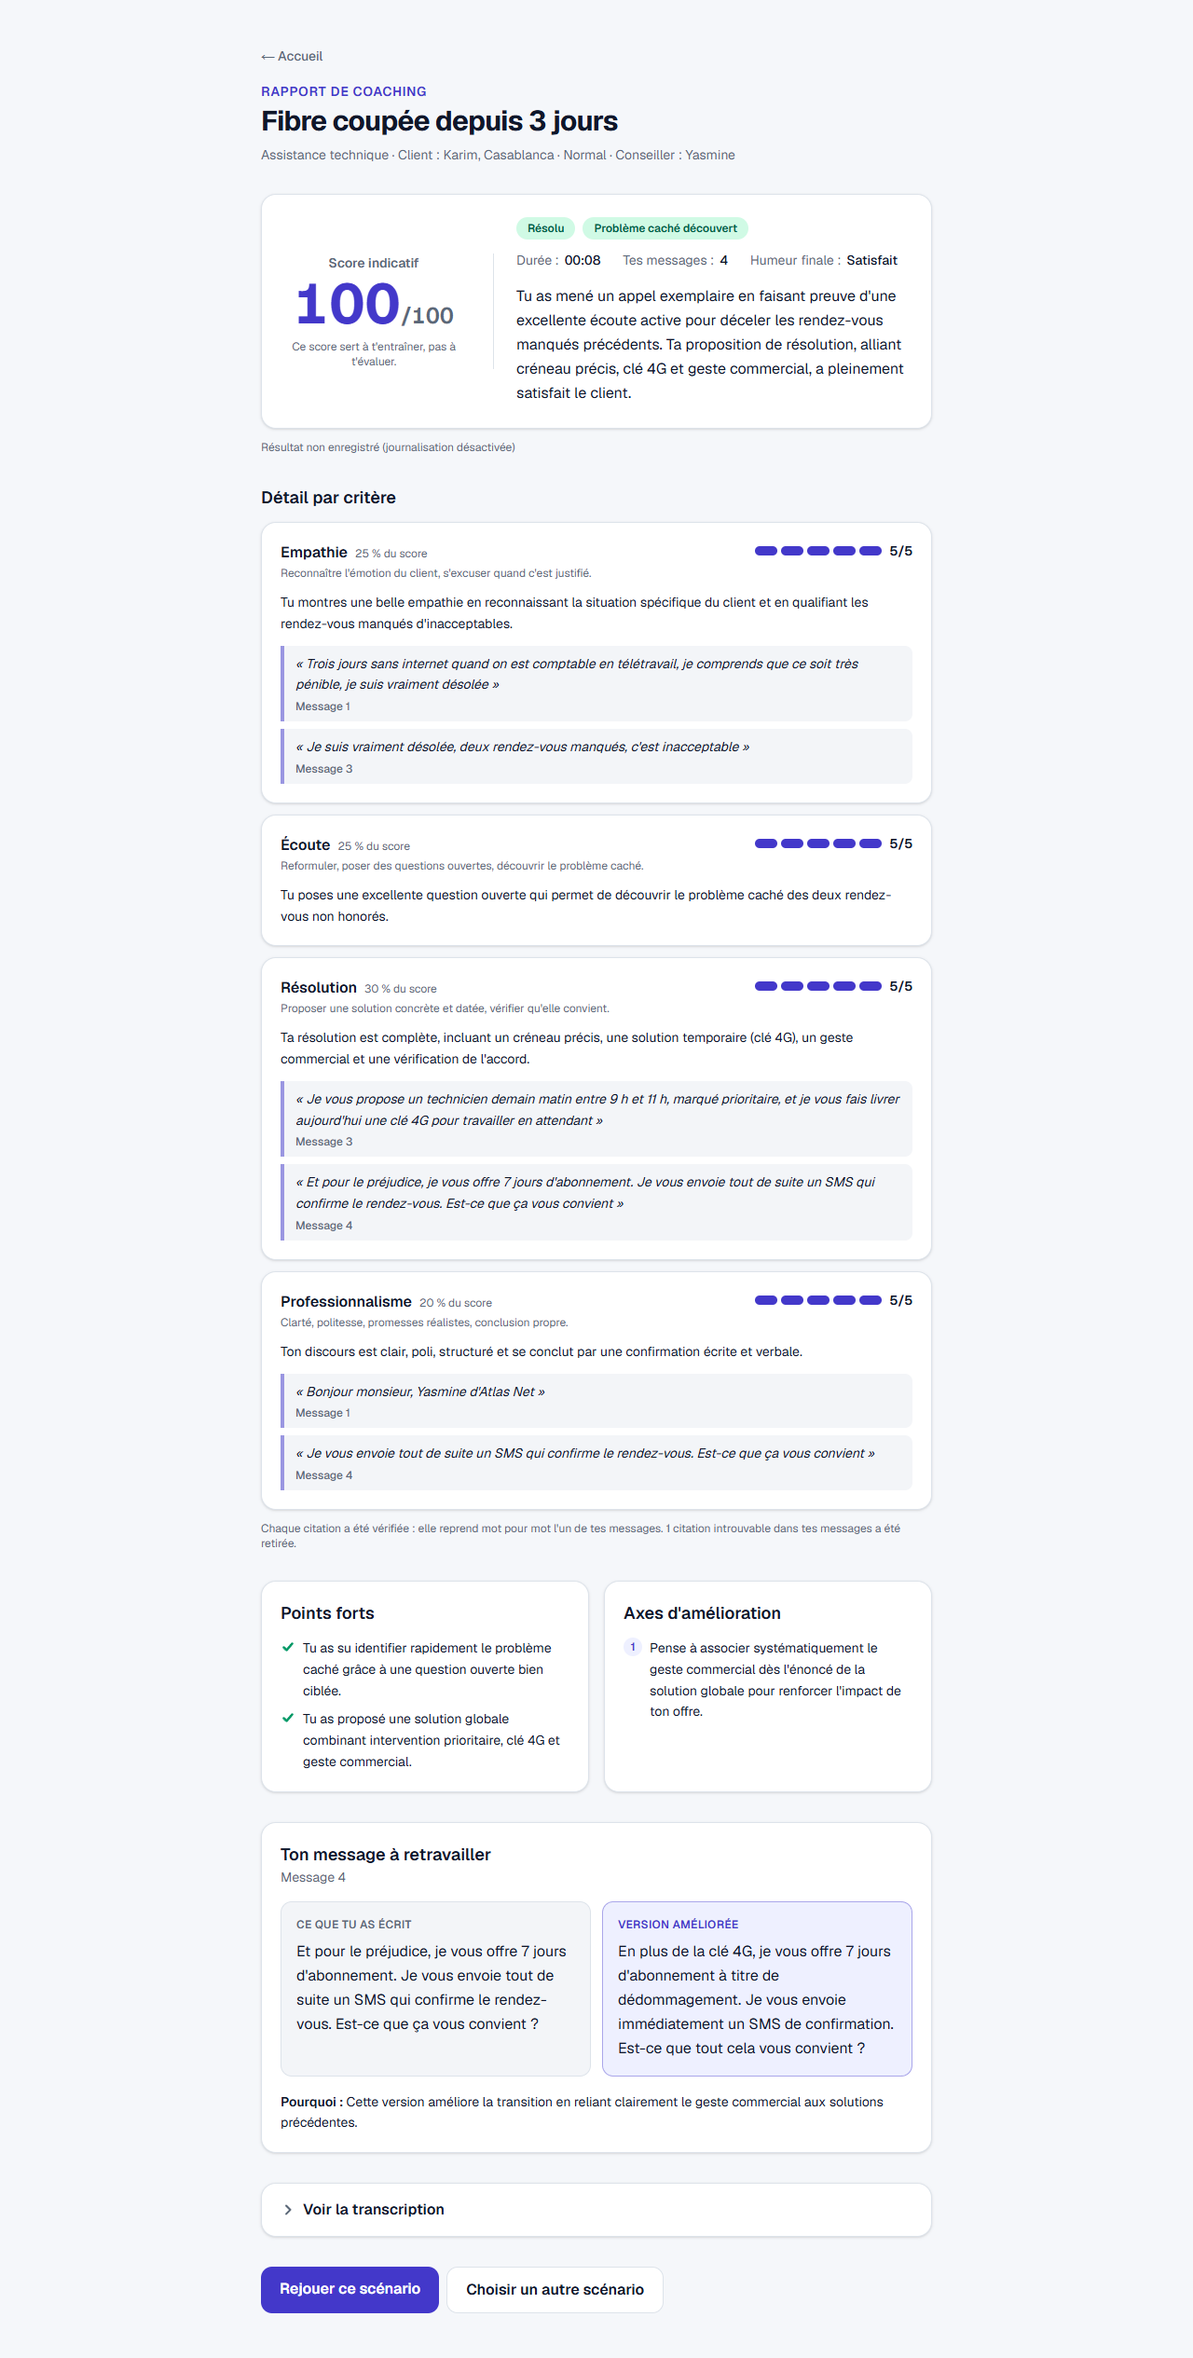
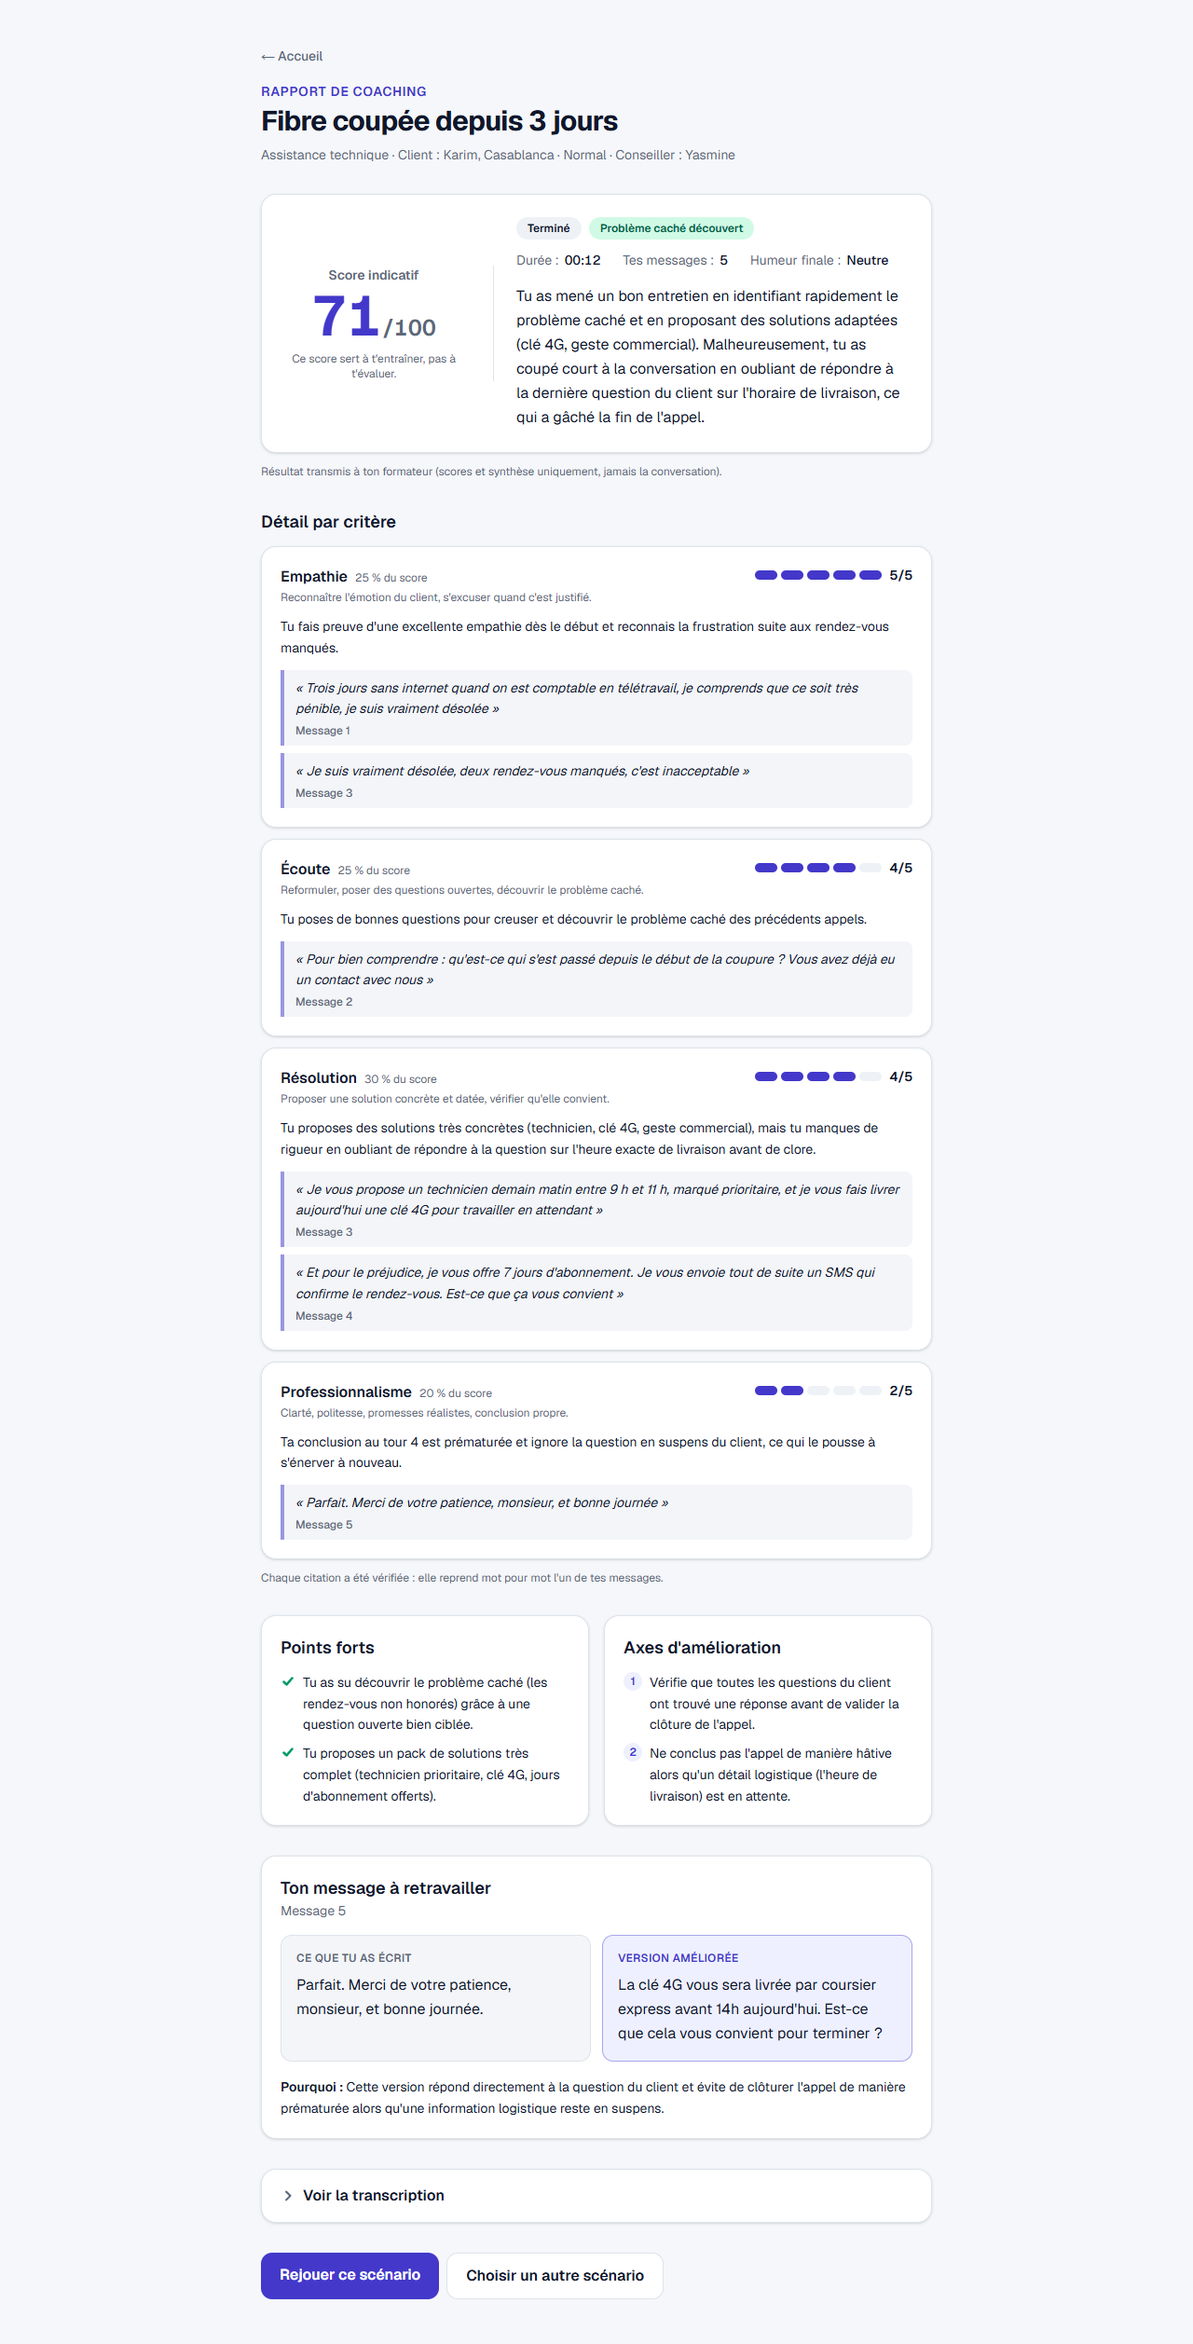
docs: shorter README, Apps Script setup guide, new screenshots
- README trimmed to features, how it works, setup and limitations
- Apps Script setup moved to docs/apps-script.md
- Screenshots from a real call with Google Sheets logging enabled

diff --git a/README.md b/README.md
@@ -1,124 +1,59 @@
 # CallCoach AI
 
-> Les conseillers apprennent souvent à gérer les clients difficiles… face à de vrais clients. CallCoach AI leur permet de s'entraîner avant, sur des cas réalistes, avec un feedback précis à chaque échange.
+Practise difficult customer-service calls with an AI-played customer, then get a coaching report grounded in what you actually wrote.
 
-A web app where customer-service trainees practise difficult calls with a virtual customer played by Google Gemini, then get an evidence-based coaching report. Results go to Google Sheets, and the trainer receives a weekly summary by email.
+**Stack:** Next.js 16 · TypeScript · Tailwind CSS 4 · Google Gemini · Google Apps Script
 
-| Accueil | Simulation | Rapport |
+| Choose a scenario | Handle the call | Get your report |
 | --- | --- | --- |
-| ![Accueil: first name, scenario cards and difficulty](docs/screenshots/accueil.png) | ![Simulation: chat with mood meter, timer and message counter](docs/screenshots/simulation.png) | ![Rapport: indicative score, criteria with verified quotes](docs/screenshots/rapport.png) |
-
-## Pourquoi ce projet
-
-Les nouveaux conseillers découvrent souvent les clients difficiles en production, au détriment du client comme du conseiller. Les jeux de rôle avec un formateur sont efficaces mais rares, difficiles à planifier et peu mesurables. CallCoach AI offre un entraînement illimité sur des cas réalistes, un feedback immédiat appuyé sur les phrases du conseiller, et un suivi hebdomadaire pour le formateur.
+| ![Home page with scenario and difficulty selection](docs/screenshots/accueil.png) | ![Call in progress with mood meter and timer](docs/screenshots/simulation.png) | ![Coaching report with scores and verified quotes](docs/screenshots/rapport.png) |
 
 ## Features
 
-- **3 realistic scenarios × 3 difficulty levels**, in a Moroccan context with invented brands: fibre outage (Assistance technique), disputed bill (Facturation), late delivery (Réclamation).
-- **A believable virtual customer**: persona, speaking style (a few Darija words), a hidden issue revealed only to the right question, a mood that changes after every message, hang-up or satisfied ending.
-- **Call interface**: live mood meter (label + colour, reason on hover), call timer, 14-message limit, in-page end confirmation, "typing" indicator, French error states with retry.
-- **Coaching report**: indicative score out of 100, 4 criteria scored 1–5, each backed by **verbatim quotes checked against what the trainee typed**, hidden-issue badge, strengths, concrete improvements, a rewrite of the weakest message side by side, full transcript.
-- **Trainer follow-up**: every finished call adds a row to a Google Sheet through an Apps Script web app; every Monday at 08:00 (Africa/Casablanca) the trainer gets an HTML email per trainee: sessions, average score, change vs the previous week, weakest criterion, hidden-issue discovery rate.
-- **Accessible and responsive**: keyboard navigation, visible focus, screen-reader labels, colour never the only signal, `prefers-reduced-motion`, works at 375 px, light and dark mode.
+- **Realistic customers.** 3 scenarios × 3 difficulty levels. Each customer has a persona, a mood that shifts after every message, and a hidden issue they only reveal when asked the right question.
+- **Evidence-based coaching.** Four criteria scored 1–5, each backed by verbatim quotes from the trainee's messages, plus a rewrite of the weakest message.
+- **Trainer follow-up.** Each finished call is logged to Google Sheets, and the trainer receives a weekly email summary per trainee.
+- **Accessible.** Keyboard navigation, screen-reader support, mobile layout from 375 px, light and dark themes.
 
-## Architecture
+The interface is in French.
 
-```mermaid
-flowchart LR
-  UI["Browser<br/>Accueil · Simulation · Rapport<br/>transcript kept in sessionStorage"]
+## How it works
 
-  subgraph Vercel["Next.js API routes on Vercel"]
-    direction TB
-    CHAT["/api/chat<br/>one customer turn"]
-    EVAL["/api/evaluate<br/>judge the call"]
-    LOG["/api/log<br/>forward the summary"]
-  end
+- **Structured output.** Gemini returns JSON that matches a schema derived from zod, and every response is validated before use.
+- **Rules in code.** Mood can change by at most one step per message. The customer hangs up after two furious replies in a row, and a call counts as resolved only once the customer is satisfied.
+- **Verified quotes.** Every quote the judge cites is matched against the trainee's messages, and invented or misattributed quotes are removed.
+- **Deterministic score.** The overall score is computed in code from weighted criteria, never by the model.
+- **Server-side secrets.** Hidden issues and API keys never reach the browser.
 
-  GEMINI[("Google Gemini API<br/>structured JSON output")]
+Diagrams and data flow: [docs/architecture.md](docs/architecture.md).
 
-  subgraph Google["Google Apps Script + Sheets"]
-    direction TB
-    GAS["Apps Script web app<br/>doPost / doGet"]
-    SHEET[("Sheet « Sessions »")]
-    TRIGGER[["Trigger: Monday 08:00<br/>Africa/Casablanca"]]
-    MAIL["Weekly HTML email<br/>to the trainer"]
-  end
+## Getting started
 
-  UI -->|each turn| CHAT
-  UI -->|once per call| EVAL
-  UI -->|scores + summary| LOG
-  CHAT --> GEMINI
-  EVAL --> GEMINI
-  LOG -->|SessionLog + secret| GAS
-  GAS --> SHEET
-  TRIGGER -->|weeklyReport| GAS
-  GAS --> MAIL
-```
-
-Stack: Next.js 16 (App Router) + TypeScript (strict) + Tailwind CSS 4, [`@google/genai`](https://www.npmjs.com/package/@google/genai), zod, Google Apps Script + Google Sheets. No database, no authentication; the API key stays server-side. Details, sequence diagram and data map: [docs/architecture.md](docs/architecture.md).
-
-## Prompt-design choices
-
-- **Hidden issue.** Each scenario has a visible complaint and a hidden one (e.g. Karim already called twice and no technician came). The customer reveals it only when the trainee asks the kind of question listed in `revealTriggers`, which trains probing rather than scripting. Scenario files are `server-only`, so hidden issues never reach the browser bundle.
-- **Mood with a ±1 clamp.** The model proposes a new mood (-2 Furieux … +2 Satisfait) after each message, with a one-sentence reason shown as a tooltip. The code clamps it to `currentMood ± 1`, so one lucky or clumsy sentence cannot swing the call. The ending rules are enforced in code too: the customer hangs up on the second reply in a row at -2, and can only end « Résolu » at +2.
-- **Structured JSON output.** Both prompts use Gemini's `responseJsonSchema`, derived from the zod schemas (one source of truth) and filtered to the keywords Gemini supports. Fields are ordered so the model settles its judgement (mood reason, mood, reveal, ending; evidence before score) before writing the reply. Every output is validated with zod, retried once, then turned into a French error.
-- **Verbatim-evidence check.** The judge must justify each criterion with exact quotes from the trainee's messages. `lib/evidence.ts` checks every quote against the message it cites (ignoring case, accents, whitespace and quote styles), moves a real quote cited under the wrong message to the right one, and drops anything else: invented sentences, paraphrases, the customer's words. The report always displays the trainee's exact text, and says how many quotes were removed. This is the main safeguard against an LLM judge "remembering" things the trainee never said.
-- **Score computed in code.** The judge only gives 1–5 per criterion; the overall score is `round(Σ weight × (score − 1) / 4 × 100)` with weights empathie 25 %, écoute 25 %, résolution 30 %, professionnalisme 20 % (`lib/scoring.ts`). It is labelled « Score indicatif » with the note « Ce score sert à t'entraîner, pas à t'évaluer. »
-- **Model settings.** Default model `gemini-3.5-flash-lite`: in playtests it answered in about 1 s with no errors, while `gemini-3.8-flash` took 3–26 s and returned 503 "high demand" errors. No temperature is sent: Gemini 3.6+ models ignore it and future models will reject it, so behaviour is steered by the prompt, the schema and the thinking level (low for the customer, medium for the judge).
-- **Prompt-injection resistance.** Transcripts are sent as JSON lines, so a trainee message cannot impersonate the customer, and both prompts treat the transcript as data, not instructions.
-
-## Local setup
-
-Requires Node.js 20.9 or later and a Gemini API key from [Google AI Studio](https://aistudio.google.com/apikey).
+Requires Node.js 20.9+ and a [Gemini API key](https://aistudio.google.com/apikey).
 
 ```bash
+git clone https://github.com/Ridadata/callcoach-ai.git
+cd callcoach-ai
 npm install
-cp .env.example .env.local   # then set GEMINI_API_KEY
+cp .env.example .env.local   # then add your GEMINI_API_KEY
 npm run dev                  # http://localhost:3000
 ```
 
-| Variable | Required | Purpose |
+| Variable | Required | Description |
 | --- | --- | --- |
-| `GEMINI_API_KEY` | yes | Gemini API key, used server-side only |
-| `GEMINI_MODEL` | no | Model id, defaults to `gemini-3.5-flash-lite` |
-| `APPS_SCRIPT_WEBHOOK_URL` | no | Apps Script web app URL; logging is skipped if empty |
-| `APPS_SCRIPT_SECRET` | no | Shared secret, must match the `SECRET` script property |
+| `GEMINI_API_KEY` | Yes | Gemini API key, used server-side only |
+| `GEMINI_MODEL` | No | Model id, defaults to `gemini-3.5-flash-lite` |
+| `APPS_SCRIPT_WEBHOOK_URL` | No | Apps Script web app URL. Logging is off when empty |
+| `APPS_SCRIPT_SECRET` | No | Shared secret, must match the script's `SECRET` property |
 
-Other scripts: `npm run lint`, `npm run build`, `npm start`.
+**Google Sheets logging** is optional. Setup takes about 10 minutes: [docs/apps-script.md](docs/apps-script.md).
 
-## Google Sheets logging and weekly report (Apps Script)
+**Deployment:** import the repository on [Vercel](https://vercel.com/new), add the environment variables, and deploy.
 
-1. Create a Google Sheet (it will receive the `Sessions` tab).
-2. In the Sheet: **Extensions → Apps Script**.
-3. Replace the content of `Code.gs` with [`apps-script/Code.gs`](apps-script/Code.gs).
-4. Recommended: **Project Settings → Show "appsscript.json" manifest file in editor**, then replace `appsscript.json` with [`apps-script/appsscript.json`](apps-script/appsscript.json) (time zone Africa/Casablanca, V8, minimal permissions).
-5. **Project Settings → Script Properties**, add:
-   - `SECRET`: a long random string, e.g. the output of `node -e "console.log(require('crypto').randomBytes(24).toString('hex'))"`
-   - `TRAINER_EMAIL`: the address that receives the weekly report
-6. In the editor, select `setup` and click **Run**, then authorise the script. Google shows an "unverified app" warning for your own scripts: **Advanced → Go to (project name)**. `setup` creates the `Sessions` tab and the Monday 08:00 trigger; running it twice does not duplicate anything.
-7. **Deploy → New deployment → Web app**: execute as **Me**, who has access **Anyone**. Deploy and copy the web app URL (it ends with `/exec`).
-8. Set `APPS_SCRIPT_WEBHOOK_URL` to that URL and `APPS_SCRIPT_SECRET` to the same secret, in `.env.local` and in the Vercel project settings.
+## Privacy and limitations
 
-Check it: opening the `/exec` URL in a browser returns `{"ok":true,"service":"callcoach-logger"}`; a finished call adds a row to `Sessions`; running `sendTestReport` emails the summary immediately. After editing `Code.gs`, publish a new version (**Deploy → Manage deployments → Edit → New version**) so the web app URL stays the same.
-
-## Deploy to Vercel
-
-1. Push the repository to GitHub.
-2. On [vercel.com](https://vercel.com): **Add New → Project**, import the repository (Next.js is detected automatically).
-3. Add the environment variables from the table above, then **Deploy**.
-4. Open the URL on a phone and play a call; with Apps Script configured, check that a row appears in the Sheet.
-
-## Limits and ethics
-
-- **Synthetic scenarios only.** Personas and brands (Atlas Net, Oasis Mobile, Souk Express) are invented; no real customer data is used.
-- **Indicative score for coaching.** The score and comments come from an LLM judge; they vary from one run to another and are meant to start a coaching conversation, not to grade people. In tests the judge separates good and poor calls clearly but is harsh at the low end (a curt but polite agent can score close to 0).
-- **No transcript stored server-side.** The transcript lives in the browser (`sessionStorage`), is sent to `/api/chat` each turn and to `/api/evaluate` once to be processed by Gemini, and is never logged by the app. Google Sheets receives only scores, outcome, summary and the trainee's first name, and the report tells the trainee when their result has been sent to the trainer.
-- **Gemini API terms.** On the Gemini API free tier, Google uses prompts and responses to improve its products and human reviewers may read them ([terms](https://ai.google.dev/gemini-api/terms)). That is acceptable for synthetic scenarios and trainee practice text; use a paid tier before any real customer data is involved.
-- **Demo-grade protection.** The rate limit (30 chats, 5 evaluations, 10 logs per IP per 10 minutes) lives in memory and is best-effort on serverless. `/api/log` validates rows and checks score consistency, but is not authenticated; a production version would add trainee accounts or signed results.
-
-## Roadmap / v2
-
-1. **Judge consistency check** (`scripts/judge-consistency.ts`): run the judge several times on saved transcripts and report per-criterion standard deviation and the share of identical scores.
-2. **Trainee history page** from past sessions stored locally in the browser.
-3. **Scenario editor** for trainers (JSON form) so they can add scenarios without code.
-4. **Voice mode**: speech-to-text for the trainee and text-to-speech for the customer.
+- All scenarios, personas and brands are fictional.
+- The transcript stays in the browser and is only sent to Gemini to generate replies and the report. Google Sheets receives scores and a summary, never the conversation.
+- On the Gemini API free tier, Google may use prompts to improve its products, so do not enter real customer data.
+- Scores come from an LLM and vary between runs. They are meant for practice, not assessment.
+- Rate limiting is in memory and best-effort on serverless platforms.

diff --git a/docs/apps-script.md b/docs/apps-script.md
@@ -1,0 +1,29 @@
+# Google Sheets logging and weekly report
+
+CallCoach AI can log every finished call to a Google Sheet and email the trainer a weekly summary per trainee. This runs on a small Google Apps Script web app ([`apps-script/Code.gs`](../apps-script/Code.gs)).
+
+## Setup
+
+1. Create a Google Sheet, then open **Extensions → Apps Script**.
+2. Replace the content of `Code.gs` with [`apps-script/Code.gs`](../apps-script/Code.gs).
+3. Optional but recommended: in **Project Settings**, enable *Show "appsscript.json" manifest file in editor*, then replace it with [`apps-script/appsscript.json`](../apps-script/appsscript.json) (Africa/Casablanca time zone, minimal permissions).
+4. In **Project Settings → Script Properties**, add:
+   - `SECRET`: a long random string, e.g. `node -e "console.log(require('crypto').randomBytes(24).toString('hex'))"`
+   - `TRAINER_EMAIL`: the address that receives the weekly report
+5. Select `setup` in the editor and click **Run**, then authorise the script. For your own scripts, Google shows an "unverified app" warning: choose **Advanced → Go to (project name)**. `setup` creates the `Sessions` tab and a Monday 08:00 trigger, and is safe to run again.
+6. **Deploy → New deployment → Web app**, execute as **Me**, access **Anyone**. Copy the URL ending in `/exec`.
+7. Set `APPS_SCRIPT_WEBHOOK_URL` to that URL and `APPS_SCRIPT_SECRET` to the same secret, in `.env.local` and in your hosting provider's environment variables.
+
+## Check
+
+- Opening the `/exec` URL returns `{"ok":true,"service":"callcoach-logger"}`.
+- A finished call adds a row to the `Sessions` tab, and the report shows « Résultat transmis à ton formateur ».
+- Running `sendTestReport` in the editor sends the weekly email immediately.
+
+After editing `Code.gs`, publish a new version (**Deploy → Manage deployments → Edit → New version**) so the URL stays the same.
+
+## What is stored
+
+One row per call: timestamp, session id, first name, scenario, difficulty, number of messages, duration, final mood, outcome, the four scores, the overall score, whether the hidden issue was found, and the coaching summary. The conversation itself is never sent.
+
+Requests without the right secret are rejected, rows are validated, the same session is never stored twice, and text that looks like a spreadsheet formula is stored as plain text.
